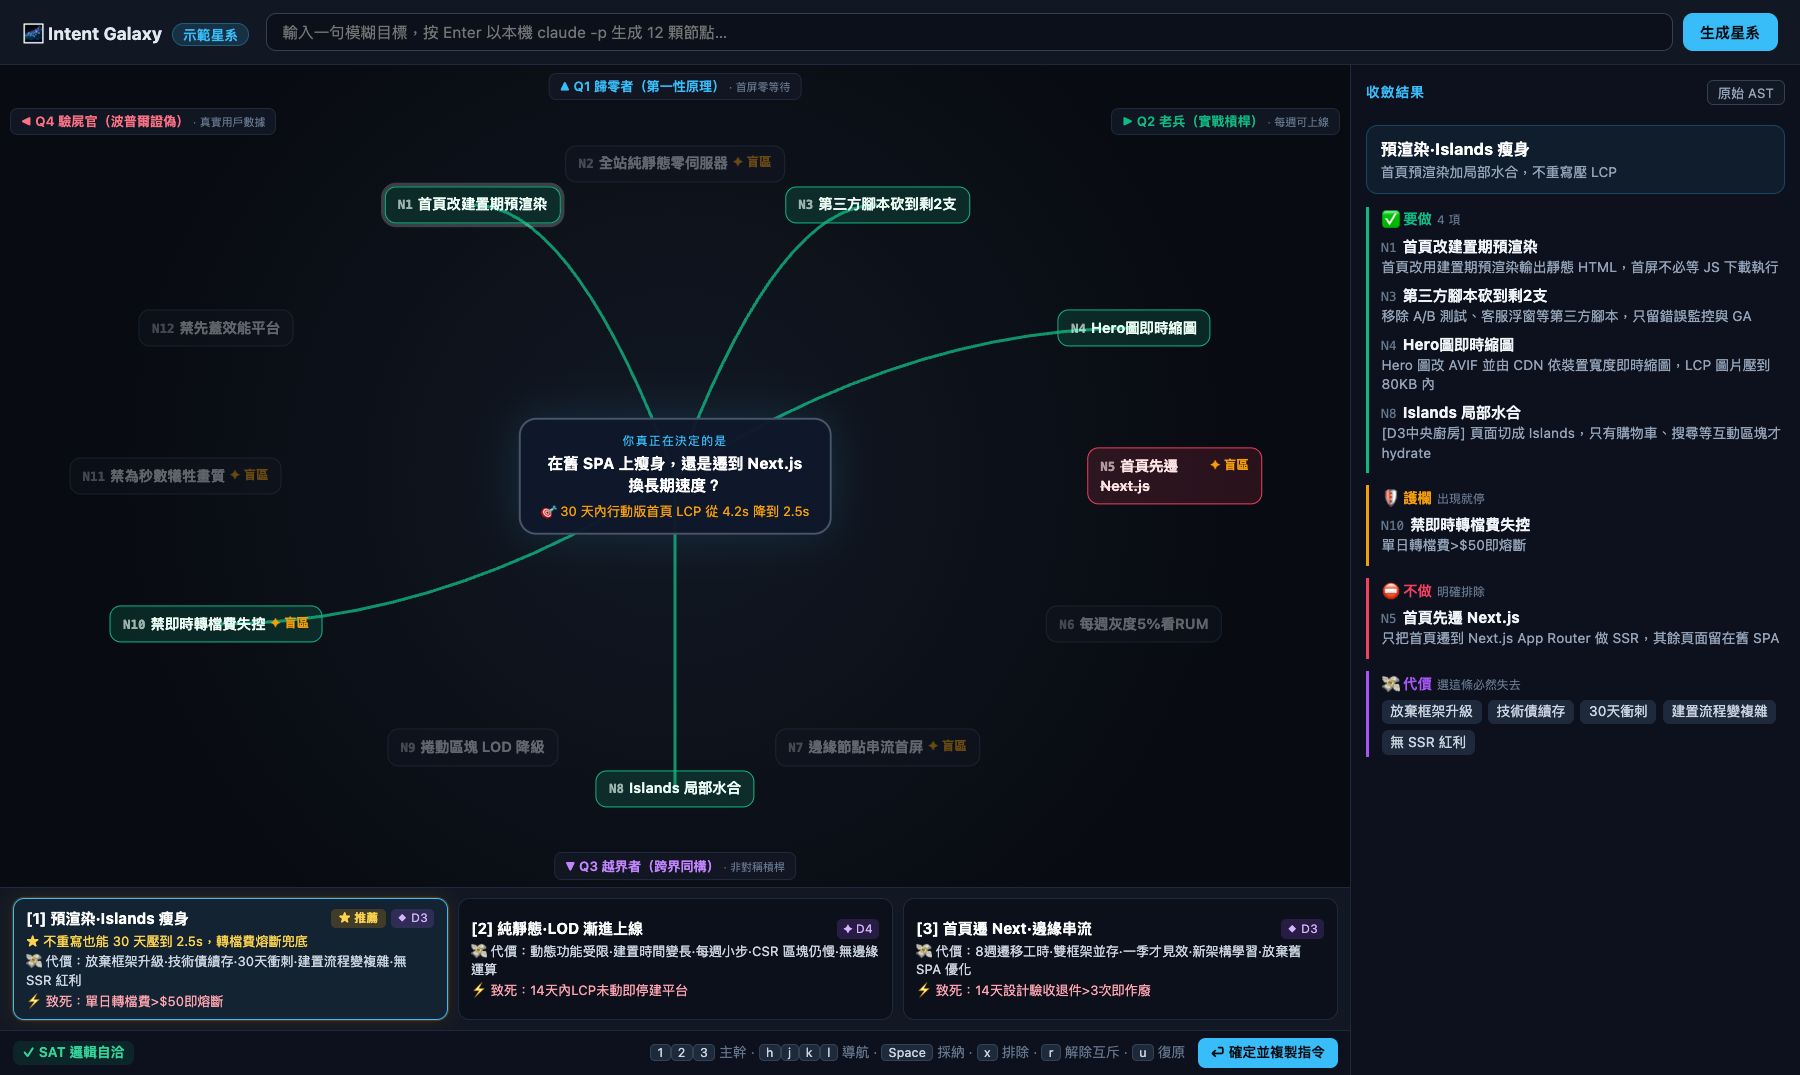
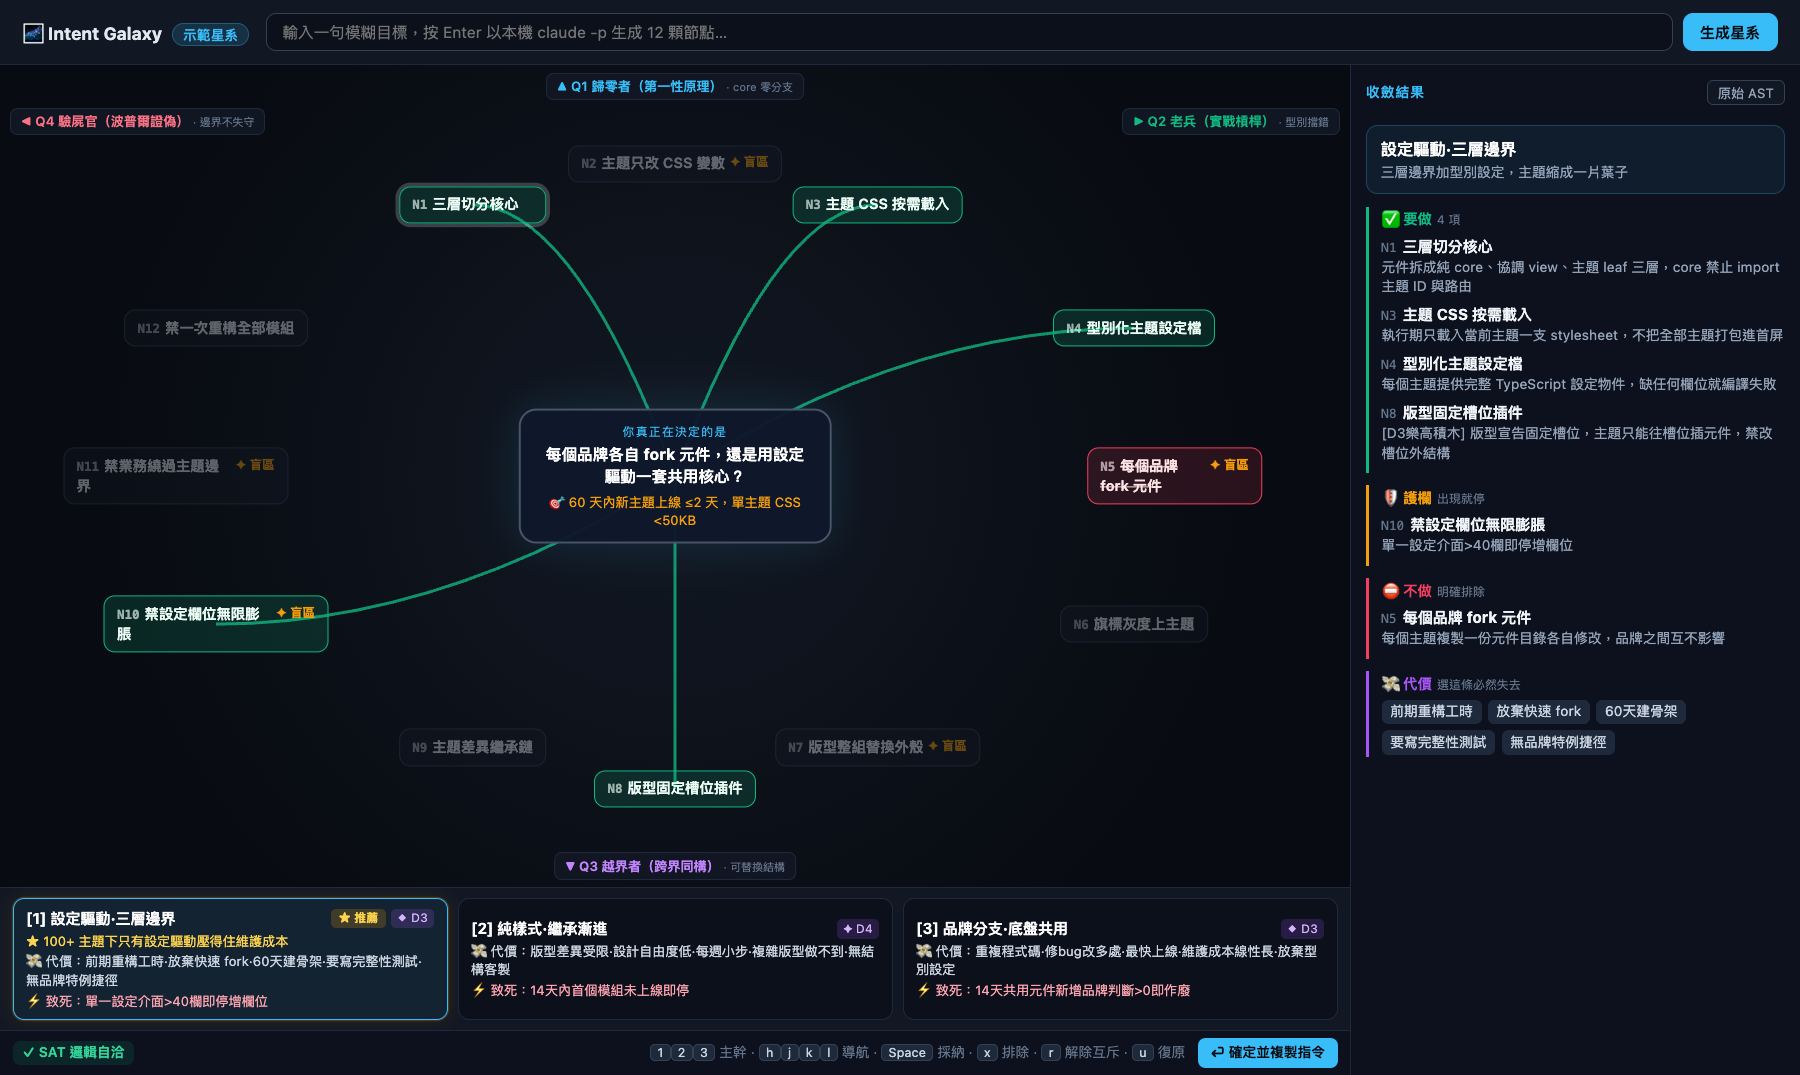
Switch the sample galaxy to a multi-layout, multi-theme frontend architecture decision

diff --git a/apps/web/sample-galaxy.js b/apps/web/sample-galaxy.js
@@ -1,5 +1,5 @@
 // 內建示範星系（IntentAnalysisResponse v1.0）：CLI 無資料或擴充功能離線時使用。
-const dims = { D1: "首屏渲染", D2: "運算位置", D3: "遷移幅度", D4: "資源與驗收" };
+const dims = { D1: "分層邊界", D2: "差異表達", D3: "客製幅度", D4: "主題組成" };
 const node = (dim, cell, inverse_cell, label, claim, kill, blind, extra = {}) => ({
   dim, cell, inverse_cell, inverse_pos: `反方主張 ${dims[dim]} 走另一極`, claim, kill, blind,
   scores: { i: 1, v: 1, r: 0 }, label, ...extra,
@@ -8,62 +8,62 @@ const node = (dim, cell, inverse_cell, label, claim, kill, blind, extra = {}) =>
 export const SAMPLE_GALAXY = {
   schema_version: "1.0",
   core: {
-    decision: "你真正在決定的是：在舊 SPA 上瘦身，還是遷到 Next.js 換長期速度？",
-    metric: "30 天內行動版首頁 LCP 從 4.2s 降到 2.5s",
+    decision: "你真正在決定的是：每個品牌各自 fork 元件，還是用設定驅動一套共用核心？",
+    metric: "60 天內新主題上線 ≤2 天，單主題 CSS <50KB",
   },
   quadrants: {
-    Q1: { scar: "曾為 2MB bundle 苦撐三年", sacred: "首屏零等待" },
-    Q2: { scar: "重寫半年後專案被砍", sacred: "每週可上線" },
-    Q3: { scar: "照抄大廠架構拖垮小團隊", sacred: "非對稱槓桿" },
-    Q4: { scar: "驗過 30 次失敗重寫", sacred: "真實用戶數據" },
+    Q1: { scar: "共用元件塞滿品牌 if", sacred: "core 零分支" },
+    Q2: { scar: "100+ 主題逐一手動對版", sacred: "型別擋錯" },
+    Q3: { scar: "照抄設計系統過度抽象", sacred: "可替換結構" },
+    Q4: { scar: "驗過三次客製失控", sacred: "邊界不失守" },
   },
   nodes: {
-    N1: node("D1", 0, 2, "首頁改建置期預渲染", "首頁改用建置期預渲染輸出靜態 HTML，首屏不必等 JS 下載執行", "14天行動版LCP未破2.5s則錯", null),
-    N2: node("D2", 0, 1, "全站純靜態零伺服器", "只部署 CDN 靜態檔，圖片在 CI 建置期預轉 AVIF，執行期零伺服器運算", "建置時間>15分鐘則錯", "動態內容只能退回 CSR"),
-    N3: node("D1", 1, 0, "第三方腳本砍到剩2支", "移除 A/B 測試、客服浮窗等第三方腳本，只留錯誤監控與 GA", "14天轉換率掉>5%則錯", null),
-    N4: node("D4", 0, 2, "Hero圖即時縮圖", "Hero 圖改 AVIF 並由 CDN 依裝置寬度即時縮圖，LCP 圖片壓到 80KB 內", "14天LCP元素>80KB則錯", null),
-    N5: node("D3", 2, 0, "首頁先遷 Next.js", "只把首頁遷到 Next.js App Router 做 SSR，其餘頁面留在舊 SPA", "8週內首頁未上線則錯", "雙框架並存維運"),
-    N6: node("D3", 1, 2, "每週灰度5%看RUM", "每次改動先灰度 5% 流量一週，用 RUM 的 p75 LCP 決定是否全量", "灰度期INP惡化>20%則錯", null),
-    N7: node("D3", 2, 1, "邊緣節點串流首屏", "[D2物流越庫] 邊緣節點先串流首屏 HTML，其餘區塊像越庫貨物到站即轉運", "邊緣TTFB>600ms則錯", "邊緣函式冷啟動",
-      { lateral: { src: "物流: 越庫作業", dist: 2, drop: "整頁渲染完才送出" } }),
-    N8: node("D2", 1, 0, "Islands 局部水合", "[D3中央廚房] 頁面切成 Islands，只有購物車、搜尋等互動區塊才 hydrate", "首頁hydrate JS>100KB則錯", null,
-      { lateral: { src: "餐飲: 中央廚房備料", dist: 3, drop: "整頁 hydrate" } }),
-    N9: node("D4", 2, 0, "捲動區塊 LOD 降級", "[D4遊戲LOD] 視窗外區塊先渲染低解析骨架，捲入視窗才換完整元件", "捲動掉幀>10%則錯", null,
-      { lateral: { src: "遊戲: LOD 細節層級", dist: 4, drop: "一次全量渲染" } }),
-    N10: node("D2", 2, 0, "禁即時轉檔費失控", "若全站圖片即時轉檔且不設快取，7天內 CDN 轉檔帳單必暴增", "單日轉檔費>$50即熔斷", "轉檔費用暗增",
-      { falsifier: { attack: "unit_economics", hits: "A2", wound: "效能收益被 CDN 帳單吃掉" } }),
-    N11: node("D4", 1, 0, "禁為秒數犧牲畫質", "若 KPI 只綁 LCP 秒數，團隊必把 Hero 圖壓到糊，設計與品牌方必反彈", "14天設計驗收退件>3次即作廢", "設計方否決權",
-      { falsifier: { attack: "dark_incentive", hits: "A3", wound: "指標壓過真實體驗" } }),
-    N12: node("D3", 0, 1, "禁先蓋效能平台", "若先花 6 週自建效能監控平台才動手改，沉沒成本必拖過 30 天期限", "14天內LCP未動即停建平台", null,
-      { falsifier: { attack: "sunk_cost", hits: "A1", wound: "工具投入綁架目標" } }),
+    N1: node("D1", 0, 2, "三層切分核心", "元件拆成純 core、協調 view、主題 leaf 三層，core 禁止 import 主題 ID 與路由", "14天內core出現主題判斷則錯", null),
+    N2: node("D2", 0, 1, "主題只改 CSS 變數", "所有主題差異只用 CSS custom properties 表達，元件與版型零分支", "第3個主題就需改元件則錯", "版型差異無法只靠顏色"),
+    N3: node("D1", 1, 0, "主題 CSS 按需載入", "執行期只載入當前主題一支 stylesheet，不把全部主題打包進首屏", "14天單主題CSS>50KB則錯", null),
+    N4: node("D4", 0, 2, "型別化主題設定檔", "每個主題提供完整 TypeScript 設定物件，缺任何欄位就編譯失敗", "新主題仍需改共用元件則錯", null),
+    N5: node("D3", 2, 0, "每個品牌 fork 元件", "每個主題複製一份元件目錄各自修改，品牌之間互不影響", "第10個主題後修bug需改>10處則錯", "修一個 bug 要改 N 份"),
+    N6: node("D3", 1, 2, "旗標灰度上主題", "新主題先用 feature flag 開給 5% 租戶一週，錯誤率達標才全量", "灰度期錯誤率>1%則錯", null),
+    N7: node("D3", 2, 1, "版型整組替換外殼", "[D2汽車平台化] 版型像車殼可整組替換，共用底盤 view 與 core 不動", "換版型需改core則錯", "版型間互動不一致",
+      { lateral: { src: "汽車: 平台化底盤", dist: 2, drop: "每款車重新開模" } }),
+    N8: node("D2", 1, 0, "版型固定槽位插件", "[D3樂高積木] 版型宣告固定槽位，主題只能往槽位插元件，禁改槽位外結構", "槽位外DOM被改>0次則錯", null,
+      { lateral: { src: "玩具: 樂高積木介面", dist: 3, drop: "自由客製 DOM" } }),
+    N9: node("D4", 2, 0, "主題差異繼承鏈", "[D4字型家族] 主題只宣告與 default 的差異，其餘欄位自動繼承", "繼承超過3層則錯", null,
+      { lateral: { src: "字體設計: 字重家族", dist: 4, drop: "每主題完整複製" } }),
+    N10: node("D2", 2, 0, "禁設定欄位無限膨脹", "若每個客製需求都加一個設定欄位，設定檔維護成本必高過直接 fork", "單一設定介面>40欄即停增欄位", "設定地獄",
+      { falsifier: { attack: "unit_economics", hits: "A2", wound: "抽象成本高過重複成本" } }),
+    N11: node("D4", 1, 0, "禁業務繞過主題邊界", "若業務可直接要求在共用元件加品牌判斷，邊界必在一季內失守", "14天共用元件新增品牌判斷>0即作廢", "交期壓力換邊界",
+      { falsifier: { attack: "dark_incentive", hits: "A3", wound: "趕交期獎勵破壞邊界" } }),
+    N12: node("D3", 0, 1, "禁一次重構全部模組", "若先一次遷移全部 70 個模組才上線，沉沒成本必讓重構半途停擺", "14天內首個模組未上線即停", null,
+      { falsifier: { attack: "sunk_cost", hits: "A1", wound: "大爆炸重構綁架交期" } }),
   },
   edges: [
-    { type: "excludes", from: "N4", to: "N5", why: "舊 SPA 自建圖片管線與 Next.js 內建 next/image 兩套擇一" },
-    { type: "excludes", from: "N1", to: "N5", why: "同一個首頁不會同時做 SPA 預渲染與 Next.js SSR" },
-    { type: "excludes", from: "N4", to: "N11", why: "壓到 80KB 的 Hero 圖必然觸發畫質護欄" },
-    { type: "excludes", from: "N2", to: "N7", why: "純靜態零伺服器與邊緣串流需要執行期運算互斥" },
-    { type: "excludes", from: "N2", to: "N10", why: "建置期預轉圖片沒有即時轉檔費可熔斷，兩者擇一" },
-    { type: "excludes", from: "N9", to: "N11", why: "低解析骨架與畫質護欄互斥" },
-    { type: "requires", from: "N1", to: "N8", why: "預渲染頁面若整頁 hydrate 會抵銷效益，必須搭配 Islands" },
-    { type: "requires", from: "N4", to: "N10", why: "即時縮圖必須設轉檔費熔斷" },
+    { type: "excludes", from: "N4", to: "N5", why: "共用型別設定與各品牌 fork 元件兩條路擇一" },
+    { type: "excludes", from: "N1", to: "N5", why: "三層共用核心與每品牌複製元件互斥" },
+    { type: "excludes", from: "N4", to: "N11", why: "型別設定已在編譯期擋繞路，人工邊界審查變成重複關卡" },
+    { type: "excludes", from: "N2", to: "N7", why: "只改 CSS 變數就不會整組替換版型元件" },
+    { type: "excludes", from: "N2", to: "N10", why: "純 CSS 變數沒有設定欄位可膨脹，兩者擇一" },
+    { type: "excludes", from: "N9", to: "N11", why: "繼承鏈允許局部覆寫，與零繞路護欄衝突" },
+    { type: "requires", from: "N1", to: "N8", why: "三層切分後主題必須透過固定槽位客製，否則 view 會被改穿" },
+    { type: "requires", from: "N4", to: "N10", why: "型別設定檔必須設欄位上限，否則膨脹成設定地獄" },
   ],
   archetypes: {
     alpha: {
       include: ["N1", "N3", "N4", "N8", "N10"], exclude: ["N5"],
-      sacrifice: { nodes: ["N5"], p: "放棄框架升級", v: "技術債續存", t: "30天衝刺", l: "建置流程變複雜", x: "無 SSR 紅利" },
-      fatal: "N10", thesis: "首頁預渲染加局部水合，不重寫壓 LCP", title: "預渲染·Islands 瘦身",
+      sacrifice: { nodes: ["N5"], p: "前期重構工時", v: "放棄快速 fork", t: "60天建骨架", l: "要寫完整性測試", x: "無品牌特例捷徑" },
+      fatal: "N10", thesis: "三層邊界加型別設定，主題縮成一片葉子", title: "設定驅動·三層邊界",
     },
     beta: {
       include: ["N2", "N3", "N6", "N9", "N12"], exclude: ["N5"],
-      sacrifice: { nodes: ["N5"], p: "動態功能受限", v: "建置時間變長", t: "每週小步", l: "CSR 區塊仍慢", x: "無邊緣運算" },
-      fatal: "N12", thesis: "零伺服器純靜態，捲動區塊 LOD 延後", title: "純靜態·LOD 漸進上線",
+      sacrifice: { nodes: ["N5"], p: "版型差異受限", v: "設計自由度低", t: "每週小步", l: "複雜版型做不到", x: "無結構客製" },
+      fatal: "N12", thesis: "只用 CSS 變數與繼承，灰度逐步上主題", title: "純樣式·繼承漸進",
     },
     gamma: {
       include: ["N3", "N5", "N7", "N8", "N11"], exclude: ["N1", "N4"],
-      sacrifice: { nodes: ["N1", "N4"], p: "8週遷移工時", v: "雙框架並存", t: "一季才見效", l: "新架構學習", x: "放棄舊 SPA 優化" },
-      fatal: "N11", thesis: "首頁先遷 Next 邊緣串流，守住畫質", title: "首頁遷 Next·邊緣串流",
+      sacrifice: { nodes: ["N1", "N4"], p: "重複程式碼", v: "修bug改多處", t: "最快上線", l: "維護成本線性長", x: "放棄型別設定" },
+      fatal: "N11", thesis: "版型整組替換，品牌各自 fork 外殼", title: "品牌分支·底盤共用",
     },
   },
-  recommend: { key: "alpha", why: "不重寫也能 30 天壓到 2.5s，轉檔費熔斷兜底" },
-  withheld_kill: { attack: "single_point_failure", hits: "A4", claim: "首屏資源依賴單一 CDN 供應商", kill: "CDN 區域故障1小時即作廢", label: "CDN 單點" },
+  recommend: { key: "alpha", why: "100+ 主題下只有設定驅動壓得住維護成本" },
+  withheld_kill: { attack: "single_point_failure", hits: "A4", claim: "所有主題都繼承同一個 default 主題", kill: "default 改壞即全主題破版", label: "default 單點" },
 };

diff --git a/libs/core/src/verify.ts b/libs/core/src/verify.ts
@@ -92,7 +92,7 @@ await assert.rejects(buildIntentLock({ analysis: a, solution: clash, baseKey: "a
 assert.equal(requiresNumericKill(["dead", "unobservable"]), false);
 assert.equal(requiresNumericKill(["unobservable", "unobservable"]), true);
 assert.equal(requiresNumericKill(["unobservable", "unobservable", "alive"]), false);
-const vague = structuredClone(a); vague.nodes.N10.kill = "轉檔費暴增即熔斷";
+const vague = structuredClone(a); vague.nodes.N10.kill = "設定欄位太多即停";
 const twice = { analysis: vague, solution: solveGalaxy(vague, "alpha", new Map()), baseKey: "alpha" as const, recentVerdicts: ["unobservable", "unobservable"] };
 await assert.rejects(buildIntentLock(twice), LockError);
 assert.ok((await buildIntentLock({ ...twice, analysis: a, solution: solveGalaxy(a, "alpha", new Map()) })).specHash);
